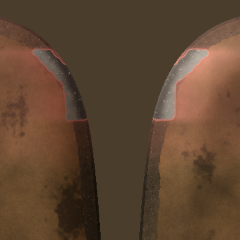
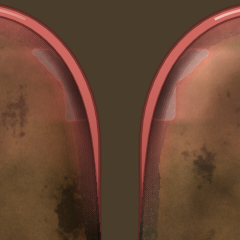
WP13.2: swollen heel bulbs (art only)
caseDef.swollen names the claws; foot rot swells both. The bulb's
outline puffs out behind the horn as tight red-pink skin, with a flush,
crease and shine over it; both up pushes the claws apart at the cleft.
One-sided swelling reads at 375x667, so D41's fallback isn't needed.
Grid and scores unchanged. sw v46.

Changed region(s): [[0.0, 0.0, 0.4375, 0.9333], [0.5833, 0.0, 1.0, 0.9333]]

diff --git a/src/hoofart.js b/src/hoofart.js
@@ -89,6 +89,7 @@ export class HoofArt {
     this.octx = this.overlay.getContext('2d');
     this.octx.setTransform(S, 0, 0, S, -this.X0 * S, -this.Y0 * S);
     this.mask = null;
+    this.swell = [];
     this.built = false;
     this.hoof = null;
     this.drips = [];
@@ -271,6 +272,7 @@ export class HoofArt {
     yield 0.12;
 
     this.hoof = hoof;
+    this.swell = swellShapes(this.polys, hoof);
     this.snap = {
       thick: Float32Array.from(hoof.thick), mud: Float32Array.from(hoof.mud),
       rough: Float32Array.from(hoof.rough), loose: Uint8Array.from(hoof.loose),
@@ -1275,7 +1277,9 @@ export class HoofArt {
     ctx.save();
     ctx.imageSmoothingEnabled = true;
     ctx.imageSmoothingQuality = 'high';
+    this.swellUnder(ctx);
     ctx.drawImage(this.canvas, this.X0, this.Y0, this.LW, this.LH);
+    this.swellOver(ctx);
     ctx.drawImage(this.overlay, this.X0, this.Y0, this.LW, this.LH);
     // Bubbles: thin glossy films that swell and pop.
     for (const b of this.bubbles) {
@@ -1292,9 +1296,113 @@ export class HoofArt {
     }
     ctx.restore();
   }
+
+  // Swollen heel bulbs (WP13.2), behind the horn: the bulb's outline puffs out past it as tight,
+  // red-pink skin, so only the rim that sticks out shows.
+  swellUnder(ctx) {
+    for (const s of this.swell) {
+      const g = ctx.createLinearGradient(0, SWELL_Y0 - 10, 0, SWELL_Y1);
+      g.addColorStop(0, 'rgb(204,104,96)');
+      g.addColorStop(0.6, 'rgb(178,84,78)');
+      g.addColorStop(1, 'rgb(140,70,62)');
+      ctx.fillStyle = g;
+      tracePoly(ctx, s.bulge);
+      ctx.fill();
+      // The skin rolls away from the lamp at its outer edge.
+      ctx.strokeStyle = 'rgba(92,36,32,0.7)';
+      ctx.lineWidth = 1.6;
+      ctx.stroke();
+    }
+  }
+
+  // Over the horn: the flush runs a few px in from the rim, a crease marks where skin meets
+  // horn, and the lamp (upper left) puts a hard shine along the stretched skin. Where both
+  // bulbs are up, they shoulder each other apart: the axial edges roll away into the cleft.
+  swellOver(ctx) {
+    if (!this.swell.length) return;
+    const fade = (a, b, rgb, a0) => {
+      const g = ctx.createLinearGradient(0, a, 0, b);
+      g.addColorStop(0, `rgba(${rgb},${a0})`);
+      g.addColorStop(1, `rgba(${rgb},0)`);
+      return g;
+    };
+    ctx.save();
+    ctx.lineJoin = 'round';
+    for (const s of this.swell) {
+      ctx.save();
+      tracePoly(ctx, s.poly);
+      ctx.clip();
+      // Layered strokes, widest first, so the flush fades inward instead of ending in a ring.
+      ctx.strokeStyle = fade(SWELL_Y0 + 20, SWELL_Y1, '196,92,86', 0.11);
+      for (let w = 24; w > 0; w -= 3) { ctx.lineWidth = w; ctx.stroke(); }
+      if (s.apart) {
+        tracePoly(ctx, s.axial, false);
+        const g = ctx.createLinearGradient(0, 190, 0, SWELL_Y1 - 10);
+        g.addColorStop(0, 'rgba(30,18,15,0)');
+        g.addColorStop(0.35, 'rgba(30,18,15,0.22)');
+        g.addColorStop(1, 'rgba(30,18,15,0)');
+        ctx.strokeStyle = g;
+        for (let w = 12; w > 0; w -= 2) { ctx.lineWidth = w; ctx.stroke(); }
+      }
+      ctx.restore();
+      tracePoly(ctx, s.poly);
+      ctx.strokeStyle = fade(SWELL_Y0 + 30, SWELL_Y1, '72,26,22', 0.6);
+      ctx.lineWidth = 1.1;
+      ctx.stroke();
+      const lit = ctx.createLinearGradient(s.cx - 50, SWELL_Y0 - 10, s.cx + 30, SWELL_Y1 - 20);
+      lit.addColorStop(0, 'rgba(255,232,222,0.7)');
+      lit.addColorStop(0.45, 'rgba(255,226,214,0.25)');
+      lit.addColorStop(1, 'rgba(255,226,214,0)');
+      tracePoly(ctx, s.shine, false);
+      ctx.strokeStyle = lit;
+      ctx.lineWidth = 1.3;
+      ctx.stroke();
+    }
+    ctx.restore();
+  }
 }
 
 // ------------------------------------------------------------------ helpers
+
+// Swollen bulbs puff out fully above SWELL_Y0 and blend back into the outline by SWELL_Y1.
+const SWELL_Y0 = 225, SWELL_Y1 = 295, SWELL_D = 5.5;
+
+// The shapes for each swollen claw (caseDef.swollen), from the smoothed outlines: the puffed
+// outline, a shine line just inside its crest, and the axial heel edge facing the cleft.
+function swellShapes(polys, hoof) {
+  const claws = hoof.caseDef.swollen ?? [];
+  return claws.map((claw) => {
+    const poly = polys[claw];
+    let area = 0, cx = 0;
+    for (let i = 0; i < poly.length; i++) {
+      const [ax, ay] = poly[i], [bx, by] = poly[(i + 1) % poly.length];
+      area += ax * by - bx * ay;
+      cx += ax / poly.length;
+    }
+    const out = area > 0 ? 1 : -1;  // which side of each edge is outward
+    const offset = (d) => poly.map(([x, y], i) => {
+      const [px, py] = poly[(i + poly.length - 1) % poly.length], [nx, ny] = poly[(i + 1) % poly.length];
+      const tx = nx - px, ty = ny - py, l = Math.hypot(tx, ty) || 1;
+      const k = d * smoothstep(SWELL_Y1, SWELL_Y0, y);
+      return [x + (out * ty * k) / l, y - (out * tx * k) / l];
+    });
+    const toMid = Math.sign(GEOM.midX - cx);
+    const heel = (pts) => pts.filter(([, y]) => y < SWELL_Y1);
+    return {
+      claw, poly, cx,
+      bulge: offset(SWELL_D),
+      shine: heel(offset(SWELL_D * 0.55)).filter(([x]) => (x - cx) * toMid < 30),
+      axial: heel(poly).filter(([x, y]) => (x - cx) * toMid > 20 && y > 190),
+      apart: claws.length > 1,
+    };
+  });
+}
+
+function tracePoly(ctx, pts, close = true) {
+  ctx.beginPath();
+  pts.forEach(([x, y], k) => (k ? ctx.lineTo(x, y) : ctx.moveTo(x, y)));
+  if (close) ctx.closePath();
+}
 
 function makeCanvas(w, h) {
   if (typeof OffscreenCanvas !== 'undefined') return new OffscreenCanvas(w, h);

diff --git a/src/case.js b/src/case.js
@@ -35,7 +35,7 @@ function traitsLine({ temper, mud, growth, foot, kicker }) {
 }
 
 // Everything a case needs, written out from where things are on the foot.
-function buildCase(condition, { seed, side, foot, excess, lesion, lesions, looseHorn, decoys, temper, mud, growth, kicker }) {
+function buildCase(condition, { seed, side, foot, excess, lesion, lesions, looseHorn, decoys, temper, mud, growth, kicker, swollen }) {
   const C = CONDITIONS[condition];
   const cow = 100 + (((seed - 100) % 900) + 900) % 900; // ear tag #100–#999; seed 214 is #214
   const leg = side === 'RH' ? 'right' : 'left';
@@ -62,6 +62,9 @@ function buildCase(condition, { seed, side, foot, excess, lesion, lesions, loose
     ...(C.toeDrag ? { toeDrag: true } : {}),
     // Trimmed too hard before (WP13.1): her soles start under target, so leave them be.
     ...(C.thinSole ? { thinSole: true } : {}),
+    // The claws whose heel bulbs are swollen (WP13.2): art only, drawn by hoofart.js. The
+    // condition names them, or its place() does when it depends on the dealt claw.
+    ...((swollen ?? C.swollen) ? { swollen: swollen ?? C.swollen } : {}),
 
     // Excess sole (mm above target) on each claw. Outer hind claws overgrow most.
     excess,

diff --git a/sw.js b/sw.js
@@ -1,7 +1,7 @@
 // Service worker: precaches the app shell so TRUE HOOF installs and plays offline.
 // Network-first, so a reachable server always wins and dev edits show up on reload;
 // the cache is the fallback when offline or slow. Bump VERSION when the asset list changes.
-const VERSION = 'true-hoof-v45';
+const VERSION = 'true-hoof-v46';
 const ASSETS = [
   './', 'index.html', 'styles.css', 'manifest.webmanifest',
   'icons/icon-192.png', 'icons/icon-512.png', 'icons/icon-maskable-512.png',

diff --git a/src/conditions.js b/src/conditions.js
@@ -647,6 +647,8 @@ export const CONDITIONS = {
     requires: { open: false, block: false, treat: true, wrap: false, trim: false },
     call: 'vet',
     diagnosis: 'footrot',
+    // The whole foot is up: both heel bulbs swell (WP13.2).
+    swollen: [CLAW.OUTER, CLAW.INNER],
 
     // The split runs the whole cleft (hoof.js marks it on both claws); `lesion` is where the
     // testers' read card points, on one claw's side of it.

diff --git a/docs/QUALITY-PLAN.md b/docs/QUALITY-PLAN.md
@@ -737,6 +737,8 @@ Both follow the 7.2 recipe: a `CONDITIONS` entry with `place`/`copy`, its `FINDI
 - **Check:** at phone size (375 × 667), swelling on one claw must read as one-sided before the probe. This is the art check for WP13. If it doesn't read, the intro says which claw is "up" (D41).
 - **Cost:** medium. All hoofart.js, plus an artlab stage per condition. Foot rot's 50-seed sweep must stay byte-identical in its grid and scores, since only pixels change.
 
+**Status (2026-10-14): done, 144 tests, sw v46.** `caseDef.swollen` comes from the condition (foot rot: both claws) or from its `place()`, for 13.3's dealt claw. hoofart.js draws it as vector layers either side of the horn canvas, so the grid, metrics and scores are untouched. Behind the horn, the heel outline is offset outward by 5.5 px above y 225, blending back by y 295, and filled red-pink with a dark outer edge. Over the horn there's a soft flush a few px in from the rim, a crease, and a lamp shine along the crest. Where both claws swell, a soft shadow rolls each axial heel edge away into the cleft, which reads as the claws pushed apart. **Phone check (375 × 667):** one claw swollen reads plainly as one-sided, even before the foot is brushed, so the D41 intro fallback isn't needed. The foot rot guide crop is redone. The swelling shows through the muck from the start, since the bulb's skin sits above it. Ben to judge in play whether that gives foot rot away too early.
+
 ### 13.3 Deep digital sepsis (call: vet; medium)
 - **What it is:** an ulcer or white-line abscess left too long, so the infection has gone deep into the joint or tendon sheath of one claw. It's beyond the trimmer: the vet resects the joint or takes the claw off. Nate refers anything needing surgery or antibiotics (1:26:12), and Shearer's note (8.2 above) is the tell: swelling confined to one claw points to the claw, not foot rot.
 - **Look:** one claw swollen (13.2) above an old, open ulcer at the usual site, with a dark, weeping hole and proud red tissue in it. The other claw is normal. The cleft skin is whole, which separates it from foot rot. She is very lame, and the read card says "she's been lame a fortnight and she's off her feed".
